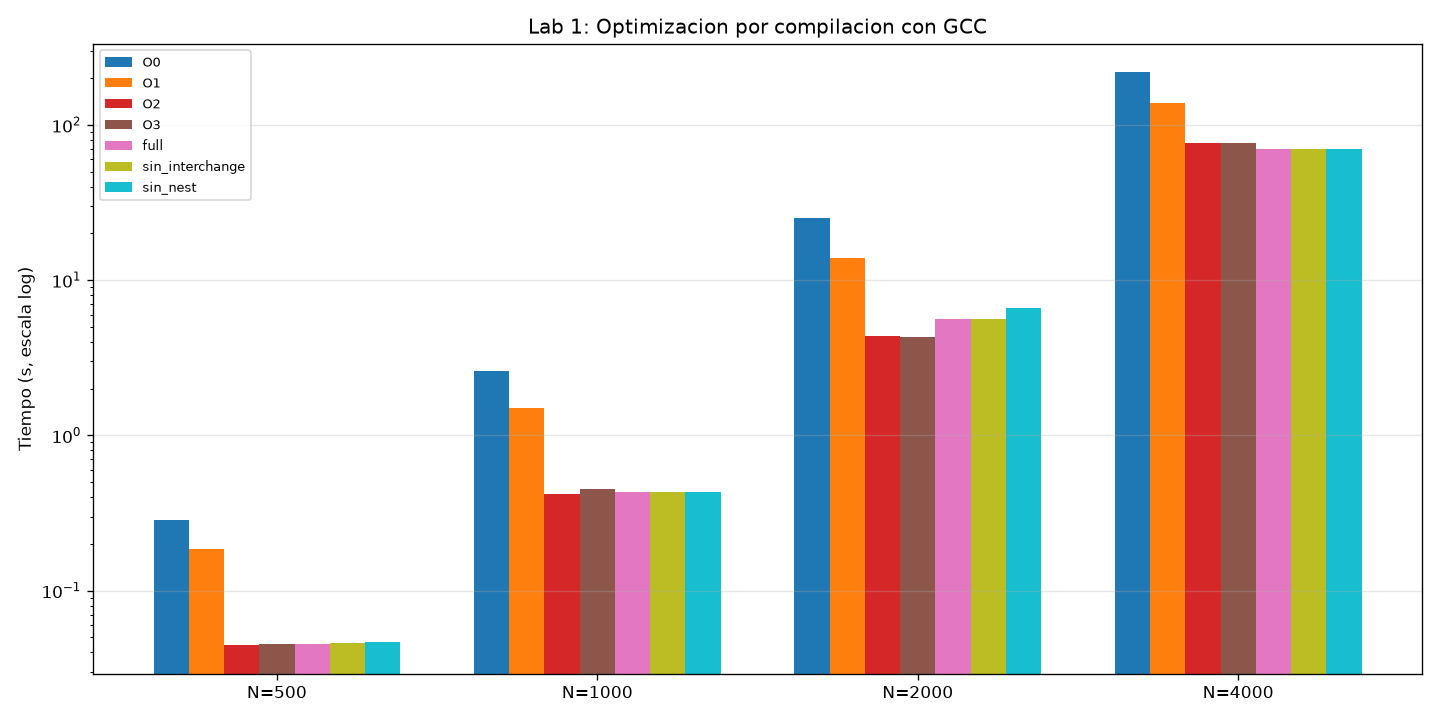
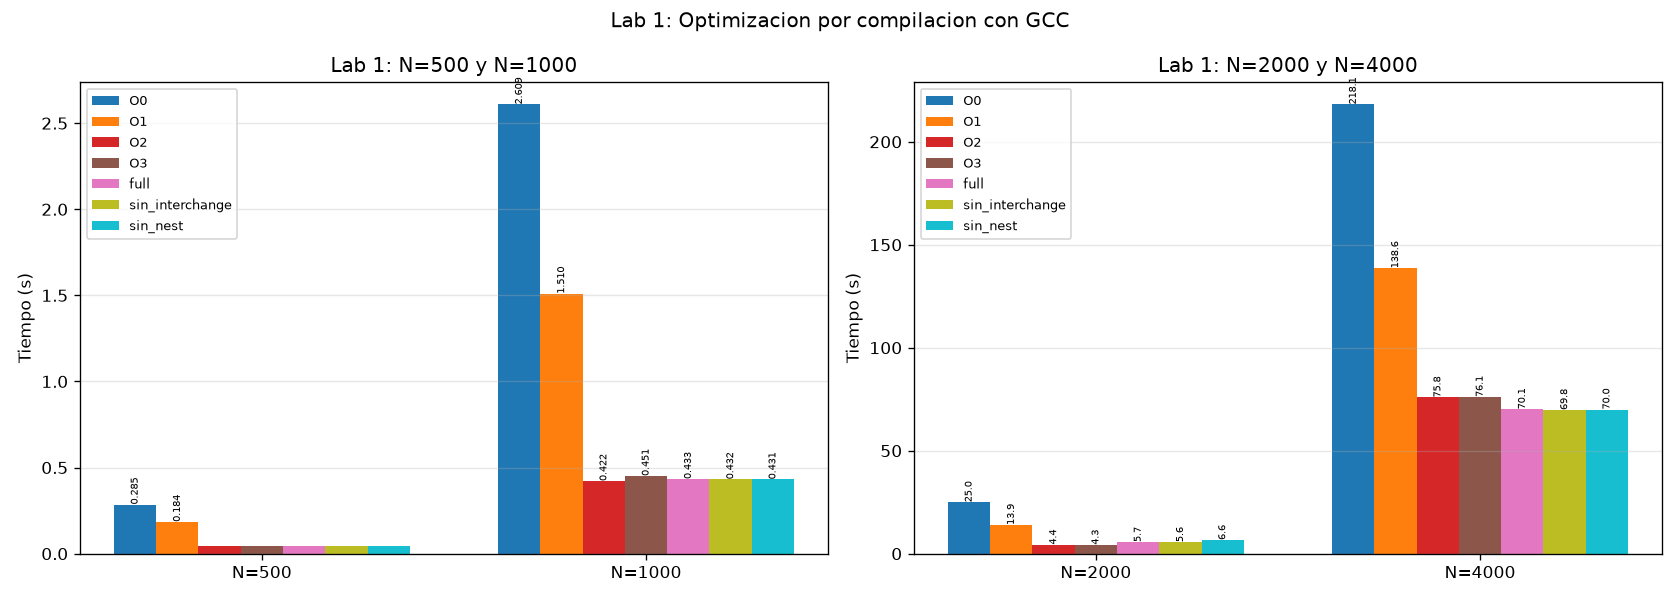
docs: regenerate plots with linear scale in subplots (easier to read than log scale)

diff --git a/experiments/plot_labs.py b/experiments/plot_labs.py
@@ -2,7 +2,6 @@ import matplotlib
 matplotlib.use('Agg')
 import matplotlib.pyplot as plt
 import numpy as np
-import sys
 
 BASE = 'experiments/resultados'
 N_values = [500, 1000, 2000, 4000]
@@ -25,20 +24,50 @@ with open(f'{BASE}/lab1_tabla.txt') as f:
                         tiempos[v].append(np.nan)
 
 if all(len(tiempos[v]) == len(N_values) for v in versiones):
-    fig, ax = plt.subplots(figsize=(12, 6))
-    x = np.arange(len(N_values))
+    # Dos subplots: N=500/1000 (rapido) y N=2000/4000 (lento) con escala lineal
+    fig, (ax1, ax2) = plt.subplots(1, 2, figsize=(14, 5))
+
+    x = np.arange(len(N_values) // 2)
     width = 0.11
     colors = plt.cm.tab10(np.linspace(0, 1, len(versiones)))
+
+    # Subplot 1: N=500, 1000
+    x_short = np.arange(2)
     for i, v in enumerate(versiones):
         offset = (i - len(versiones)/2) * width + width/2
-        ax.bar(x + offset, tiempos[v], width, label=v, color=colors[i])
-    ax.set_yscale('log')
-    ax.set_xticks(x)
-    ax.set_xticklabels([f'N={n}' for n in N_values])
-    ax.set_ylabel('Tiempo (s, escala log)')
-    ax.set_title('Lab 1: Optimizacion por compilacion con GCC')
-    ax.legend(loc='upper left', fontsize=8)
-    ax.grid(True, axis='y', alpha=0.3)
+        ax1.bar(x_short + offset, [tiempos[v][0], tiempos[v][1]], width, label=v, color=colors[i])
+    ax1.set_xticks(x_short)
+    ax1.set_xticklabels([f'N={N_values[0]}', f'N={N_values[1]}'])
+    ax1.set_ylabel('Tiempo (s)')
+    ax1.set_title('Lab 1: N=500 y N=1000')
+    ax1.legend(loc='upper left', fontsize=8)
+    ax1.grid(True, axis='y', alpha=0.3)
+
+    # Anotar valores encima de las barras mas altas
+    for i, v in enumerate(versiones):
+        for j, val in enumerate([tiempos[v][0], tiempos[v][1]]):
+            offset = (i - len(versiones)/2) * width + width/2
+            if val > 0.1:
+                ax1.text(j + offset, val, f'{val:.3f}', ha='center', va='bottom', fontsize=6, rotation=90)
+
+    # Subplot 2: N=2000, 4000
+    x_long = np.arange(2)
+    for i, v in enumerate(versiones):
+        offset = (i - len(versiones)/2) * width + width/2
+        ax2.bar(x_long + offset, [tiempos[v][2], tiempos[v][3]], width, label=v, color=colors[i])
+    ax2.set_xticks(x_long)
+    ax2.set_xticklabels([f'N={N_values[2]}', f'N={N_values[3]}'])
+    ax2.set_ylabel('Tiempo (s)')
+    ax2.set_title('Lab 1: N=2000 y N=4000')
+    ax2.legend(loc='upper left', fontsize=8)
+    ax2.grid(True, axis='y', alpha=0.3)
+
+    for i, v in enumerate(versiones):
+        for j, val in enumerate([tiempos[v][2], tiempos[v][3]]):
+            offset = (i - len(versiones)/2) * width + width/2
+            ax2.text(j + offset, val, f'{val:.1f}', ha='center', va='bottom', fontsize=6, rotation=90)
+
+    plt.suptitle('Lab 1: Optimizacion por compilacion con GCC')
     plt.tight_layout()
     plt.savefig(f'{BASE}/lab1_tiempos.png', dpi=120)
     plt.close()
@@ -63,18 +92,39 @@ with open(f'{BASE}/lab2_tabla.txt') as f:
                 pass
 
 if len(t_normal) == len(N_values):
-    fig, ax = plt.subplots(figsize=(10, 5))
-    x = np.arange(len(N_values))
+    # Dos subplots: N=500/1000 y N=2000/4000 con escala lineal
+    fig, (ax1, ax2) = plt.subplots(1, 2, figsize=(14, 5))
+
+    x_short = np.arange(2)
     width = 0.35
-    ax.bar(x - width/2, t_normal, width, label='Normal (B por columna)', color='C0')
-    ax.bar(x + width/2, t_trans, width, label='Transpuesto (B por fila)', color='C1')
-    ax.set_yscale('log')
-    ax.set_xticks(x)
-    ax.set_xticklabels([f'N={n}' for n in N_values])
-    ax.set_ylabel('Tiempo (s, escala log)')
-    ax.set_title('Lab 2: Optimizacion de memoria (cache line)')
-    ax.legend()
-    ax.grid(True, axis='y', alpha=0.3)
+    ax1.bar(x_short - width/2, [t_normal[0], t_normal[1]], width, label='Normal (B por columna)', color='C0')
+    ax1.bar(x_short + width/2, [t_trans[0], t_trans[1]], width, label='Transpuesto (B por fila)', color='C1')
+    ax1.set_xticks(x_short)
+    ax1.set_xticklabels([f'N={N_values[0]}', f'N={N_values[1]}'])
+    ax1.set_ylabel('Tiempo (s)')
+    ax1.set_title('Lab 2: N=500 y N=1000')
+    ax1.legend()
+    ax1.grid(True, axis='y', alpha=0.3)
+    for i, val in enumerate([t_normal[0], t_normal[1]]):
+        ax1.text(i - width/2, val, f'{val:.3f}', ha='center', va='bottom', fontsize=8, rotation=90)
+    for i, val in enumerate([t_trans[0], t_trans[1]]):
+        ax1.text(i + width/2, val, f'{val:.3f}', ha='center', va='bottom', fontsize=8, rotation=90)
+
+    x_long = np.arange(2)
+    ax2.bar(x_long - width/2, [t_normal[2], t_normal[3]], width, label='Normal (B por columna)', color='C0')
+    ax2.bar(x_long + width/2, [t_trans[2], t_trans[3]], width, label='Transpuesto (B por fila)', color='C1')
+    ax2.set_xticks(x_long)
+    ax2.set_xticklabels([f'N={N_values[2]}', f'N={N_values[3]}'])
+    ax2.set_ylabel('Tiempo (s)')
+    ax2.set_title('Lab 2: N=2000 y N=4000')
+    ax2.legend()
+    ax2.grid(True, axis='y', alpha=0.3)
+    for i, val in enumerate([t_normal[2], t_normal[3]]):
+        ax2.text(i - width/2, val, f'{val:.2f}', ha='center', va='bottom', fontsize=8, rotation=90)
+    for i, val in enumerate([t_trans[2], t_trans[3]]):
+        ax2.text(i + width/2, val, f'{val:.2f}', ha='center', va='bottom', fontsize=8, rotation=90)
+
+    plt.suptitle('Lab 2: Optimizacion de memoria (cache line)')
     plt.tight_layout()
     plt.savefig(f'{BASE}/lab2_tiempos.png', dpi=120)
     plt.close()
